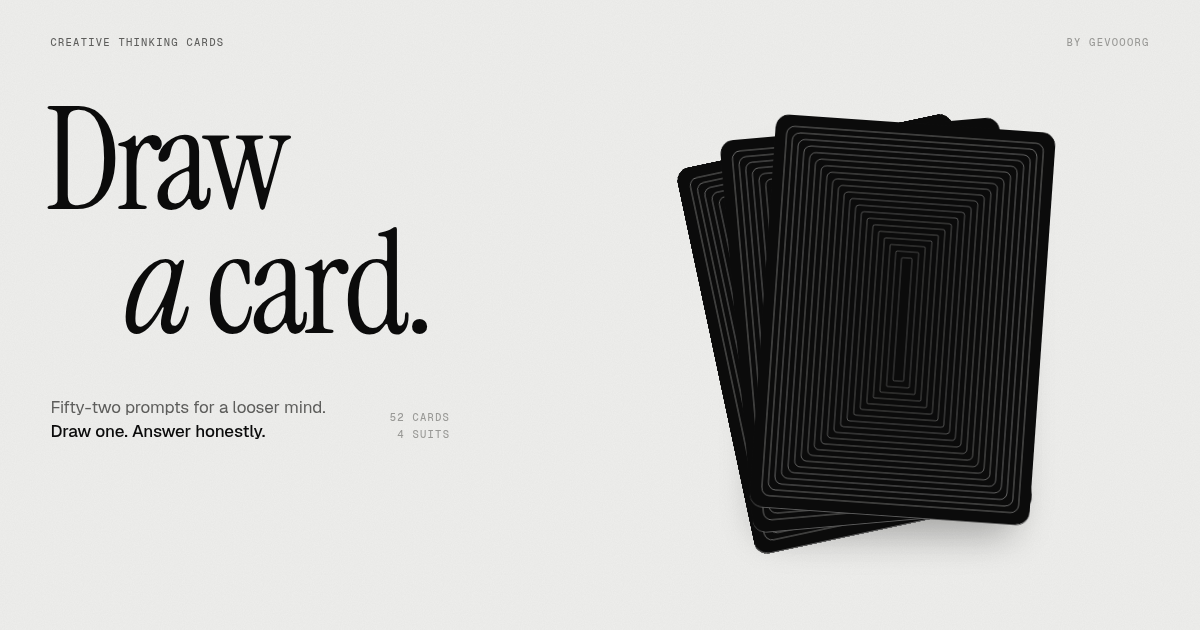
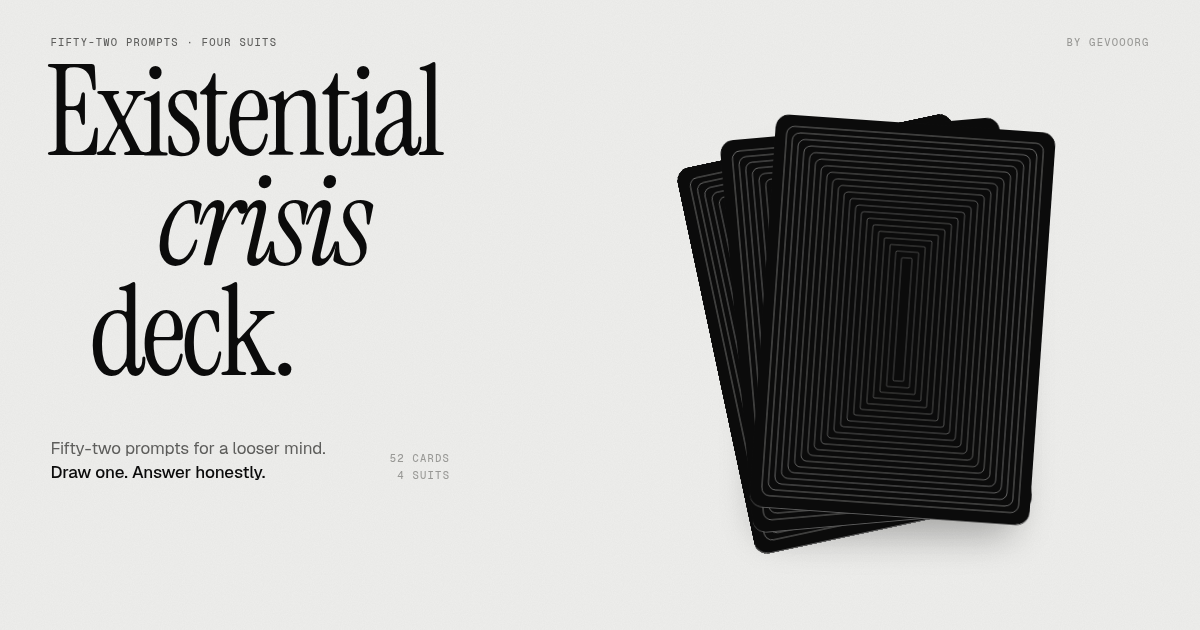
Rename to Existential Crisis Deck

diff --git a/index.html b/index.html
@@ -3,8 +3,8 @@
 <head>
 <meta charset="utf-8">
 <meta name="viewport" content="width=device-width, initial-scale=1, viewport-fit=cover">
-<title>Draw a card — creative thinking cards by gevooorg</title>
-<meta name="description" content="Fifty-two prompts for a looser mind. Shuffle, draw a card, answer honestly, and keep your answers in a private journal. Free, in your browser.">
+<title>Existential Crisis Deck — by gevooorg</title>
+<meta name="description" content="Existential Crisis Deck: fifty-two prompts for a looser mind. Shuffle, draw a card, answer honestly, and keep your answers in a private journal. Free, in your browser.">
 <meta name="theme-color" content="#EDEDEB">
 <meta name="color-scheme" content="light">
 <link rel="icon" href="favicon.svg" type="image/svg+xml">
@@ -13,16 +13,16 @@
 <link rel="manifest" href="manifest.webmanifest">
 <meta property="og:type" content="website">
 <meta property="og:site_name" content="gevooorg">
-<meta property="og:title" content="Draw a card — creative thinking cards">
+<meta property="og:title" content="Existential Crisis Deck — by gevooorg">
 <meta property="og:description" content="Fifty-two prompts for a looser mind. Draw one. Answer honestly.">
 <meta property="og:url" content="https://thehayrapetian.github.io/creative-thinking-cards/">
 <meta property="og:image" content="https://thehayrapetian.github.io/creative-thinking-cards/og-image.png">
 <link rel="canonical" href="https://thehayrapetian.github.io/creative-thinking-cards/">
 <meta property="og:image:width" content="1200">
 <meta property="og:image:height" content="630">
-<meta property="og:image:alt" content="Draw a card — a deck of fifty-two creative thinking prompts">
+<meta property="og:image:alt" content="Existential Crisis Deck — fifty-two prompts for a looser mind">
 <meta name="twitter:card" content="summary_large_image">
-<meta name="twitter:title" content="Draw a card — creative thinking cards">
+<meta name="twitter:title" content="Existential Crisis Deck — by gevooorg">
 <meta name="twitter:description" content="Fifty-two prompts for a looser mind. Draw one. Answer honestly.">
 <meta name="twitter:image" content="https://thehayrapetian.github.io/creative-thinking-cards/og-image.png">
 <style>
@@ -74,8 +74,9 @@ button{font:inherit;color:inherit;background:none;border:0;cursor:pointer}
 .t-top{display:flex;justify-content:space-between;align-items:baseline;color:var(--ink2);line-height:20px}
 .t-by{color:var(--ink3);text-decoration:none;transition:color .2s}
 .t-by:hover{color:var(--ink)}
-.wordmark{font-size:clamp(84px,28vw,190px);line-height:.86;letter-spacing:-.035em;margin:clamp(18px,4vh,48px) 0 0 -.04em}
-.wordmark .l2{display:block;padding-left:.55em}
+.wordmark{font-size:clamp(54px,18vw,150px);line-height:.88;letter-spacing:-.035em;margin:clamp(18px,4vh,48px) 0 0 -.04em}
+.wordmark .l2{display:block;padding-left:.9em}
+.wordmark .l3{display:block;padding-left:.35em}
 .t-space{flex:1;min-height:170px}
 .t-bottom{display:flex;justify-content:space-between;align-items:flex-end;gap:24px;margin:0 0 26px}
 .t-copy{font-size:15px;line-height:21px;color:var(--ink2);letter-spacing:-.006em;max-width:300px}
@@ -123,7 +124,7 @@ button{font:inherit;color:inherit;background:none;border:0;cursor:pointer}
 .fbot{position:absolute;left:24px;right:26px;bottom:18px;display:flex;align-items:baseline;gap:8px}
 .fbot .big{font-size:84px;line-height:.8;letter-spacing:-.04em;color:var(--faceInk)}
 .fbot .of{color:var(--faceInk2)}
-.fbot .wm{margin-left:auto;font-size:16px;letter-spacing:-.01em;color:var(--faceInk2)}
+.fbot .wm{margin-left:auto;font-size:14px;white-space:nowrap;letter-spacing:-.01em;color:var(--faceInk2)}
 
 /* ---------- journal ---------- */
 .j-wrap{position:absolute;left:0;right:0;top:calc(var(--top) + 64px);bottom:0;max-width:820px;margin:0 auto;padding:0 var(--pad);display:flex;flex-direction:column}
@@ -155,7 +156,7 @@ button{font:inherit;color:inherit;background:none;border:0;cursor:pointer}
 @media (min-width:900px) and (min-height:560px){
   .t-col{justify-content:center;padding-right:50%}
   .t-top{position:absolute;top:calc(var(--top) + 18px);left:var(--pad);right:var(--pad)}
-  .wordmark{font-size:clamp(120px,12vw,230px);margin-top:0}
+  .wordmark{font-size:clamp(84px,10.4vw,170px);margin-top:0}
   .t-space{position:absolute;left:52%;right:var(--pad);top:12%;bottom:10%;min-height:0}
   .t-bottom{margin:48px 0 36px;justify-content:flex-start;gap:64px}
   .t-copy{font-size:17px;line-height:24px;max-width:340px}
@@ -163,6 +164,7 @@ button{font:inherit;color:inherit;background:none;border:0;cursor:pointer}
   .keys{display:flex}
   .hbtn{font-size:16px}
 }
+@media (max-width:380px){.hmid{display:none}}
 @media (prefers-reduced-motion: reduce){*{transition-duration:.01s!important}}
 </style>
 </head>
@@ -172,8 +174,8 @@ button{font:inherit;color:inherit;background:none;border:0;cursor:pointer}
   <!-- TITLE -->
   <section class="screen" data-screen="title">
     <div class="t-col">
-      <div class="t-top"><span class="mono">Creative thinking cards</span><a class="t-by mono" href="https://gevooorg.com" target="_blank" rel="noopener">by gevooorg</a></div>
-      <h1 class="wordmark serif" aria-label="Draw a card">Draw<span class="l2"><span class="it">a</span> card.</span></h1>
+      <div class="t-top"><span class="mono">Fifty-two prompts · four suits</span><a class="t-by mono" href="https://gevooorg.com" target="_blank" rel="noopener">by gevooorg</a></div>
+      <h1 class="wordmark serif" aria-label="Existential Crisis Deck">Existential<span class="l2"><span class="it">crisis</span></span><span class="l3">deck.</span></h1>
       <div class="t-space" id="tSpace" aria-hidden="true"></div>
       <div class="t-bottom"><p class="t-copy">Fifty-two prompts for a looser mind.<br><b>Draw one. Answer honestly.</b></p><span class="t-meta mono">52 cards<br>4 suits</span></div>
       <div class="t-cta"><button class="btn" id="begin"><span class="lbl"><span>Begin</span></span></button></div>
@@ -184,7 +186,7 @@ button{font:inherit;color:inherit;background:none;border:0;cursor:pointer}
   <section class="screen" data-screen="table">
     <div class="hdr">
       <button class="hbtn" id="tBack" aria-label="Back"><svg width="10" height="17" viewBox="0 0 10 17"><path d="M8.5 1.5 2 8.5l6.5 7" fill="none" stroke="currentColor" stroke-width="1.8" stroke-linecap="round" stroke-linejoin="round"/></svg><span class="lbl" id="tBackL" style="display:inline-grid;overflow:hidden;height:20px;line-height:20px"><span style="grid-area:1/1">Home</span></span></button>
-      <span class="hmid mono">Draw a card</span>
+      <span class="hmid mono">Existential Crisis Deck</span>
       <button class="hbtn" id="tJournal">Journal<span class="mono" id="jCount" style="opacity:.55;letter-spacing:.04em">0</span></button>
     </div>
     <div class="vlayer" id="vlayer">
@@ -223,7 +225,7 @@ button{font:inherit;color:inherit;background:none;border:0;cursor:pointer}
 </div>
 
 <script>
-const DATA = {"title": "Draw a card (working title)", "note": "Original prompts written for an internal gevooorg prototype. Inspired in spirit by creative-thinking card decks; no wording reused.", "suits": [{"id": "recall", "name": "Recall", "about": "Memory, people, noticing"}, {"id": "invent", "name": "Invent", "about": "Objects, rituals, what-ifs"}, {"id": "play", "name": "Play", "about": "Constraints, games, odd angles"}, {"id": "admit", "name": "Admit", "about": "Blocks, fears, unfinished sentences"}], "cards": [{"n": 1, "suit": "recall", "suitName": "Recall", "rank": 1, "text": "Name someone who made you braver without ever meaning to. What did they actually do?"}, {"n": 2, "suit": "recall", "suitName": "Recall", "rank": 2, "text": "What did you build, draw or invent as a child that you would still quietly defend?"}, {"n": 3, "suit": "recall", "suitName": "Recall", "rank": 3, "text": "Recall the last time you lost track of time. Where were you, and what were your hands doing?"}, {"n": 4, "suit": "recall", "suitName": "Recall", "rank": 4, "text": "Which teacher saw something in you before you did?"}, {"n": 5, "suit": "recall", "suitName": "Recall", "rank": 5, "text": "Pick a place you pass every day. Describe one detail of it you have never mentioned to anyone."}, {"n": 6, "suit": "recall", "suitName": "Recall", "rank": 6, "text": "Think of a terrible idea you once loved. What was secretly good about it?"}, {"n": 7, "suit": "recall", "suitName": "Recall", "rank": 7, "text": "Who in your family is the cleverest improviser in a kitchen, a garage or a story? What is their trick?"}, {"n": 8, "suit": "recall", "suitName": "Recall", "rank": 8, "text": "Describe a room from your childhood using only sounds and smells."}, {"n": 9, "suit": "recall", "suitName": "Recall", "rank": 9, "text": "Which remark about your imagination do you still remember, word for word?"}, {"n": 10, "suit": "recall", "suitName": "Recall", "rank": 10, "text": "Which object you own has the best story behind it?"}, {"n": 11, "suit": "recall", "suitName": "Recall", "rank": 11, "text": "Look around you. What here was designed badly, and what was its maker thinking?"}, {"n": 12, "suit": "recall", "suitName": "Recall", "rank": 12, "text": "When did a mistake turn into the best part of something you made?"}, {"n": 13, "suit": "recall", "suitName": "Recall", "rank": 13, "text": "Whose style do you borrow, a little, when you want to feel original?"}, {"n": 14, "suit": "invent", "suitName": "Invent", "rank": 1, "text": "Design a tool for the five minutes after waking up."}, {"n": 15, "suit": "invent", "suitName": "Invent", "rank": 2, "text": "Invent a word for a feeling that has no name yet. Use it in a sentence."}, {"n": 16, "suit": "invent", "suitName": "Invent", "rank": 3, "text": "Every town gets a museum of one small thing. Choose the thing for yours."}, {"n": 17, "suit": "invent", "suitName": "Invent", "rank": 4, "text": "Invent a holiday for something everyone does and nobody mentions."}, {"n": 18, "suit": "invent", "suitName": "Invent", "rank": 5, "text": "Redesign the umbrella. You have one minute."}, {"n": 19, "suit": "invent", "suitName": "Invent", "rank": 6, "text": "You can borrow someone else’s habit for a week. Whose, and which one?"}, {"n": 20, "suit": "invent", "suitName": "Invent", "rank": 7, "text": "Invent a job that should exist but doesn’t. Write its one-line advert."}, {"n": 21, "suit": "invent", "suitName": "Invent", "rank": 8, "text": "Design a chair for someone waiting for news."}, {"n": 22, "suit": "invent", "suitName": "Invent", "rank": 9, "text": "Doors now remember everyone who walks through them. What does yours know about you?"}, {"n": 23, "suit": "invent", "suitName": "Invent", "rank": 10, "text": "Invent one rule for a dinner party that would make everyone more interesting."}, {"n": 24, "suit": "invent", "suitName": "Invent", "rank": 11, "text": "A shop sells only second chances. What is in the window?"}, {"n": 25, "suit": "invent", "suitName": "Invent", "rank": 12, "text": "What could a teaspoon do, if it weren’t so busy being a teaspoon?"}, {"n": 26, "suit": "invent", "suitName": "Invent", "rank": 13, "text": "Invent a small ritual for the moment you finish something."}, {"n": 27, "suit": "play", "suitName": "Play", "rank": 1, "text": "Tell the story of your week in exactly six words."}, {"n": 28, "suit": "play", "suitName": "Play", "rank": 2, "text": "Explain your work to a curious nine-year-old. Now explain it as a pirate."}, {"n": 29, "suit": "play", "suitName": "Play", "rank": 3, "text": "Name ten uses for an empty envelope, quickly. The last three count double."}, {"n": 30, "suit": "play", "suitName": "Play", "rank": 4, "text": "Draw your mood in the air using only straight lines."}, {"n": 31, "suit": "play", "suitName": "Play", "rank": 5, "text": "Pick up the nearest object. Give it a name, a fear and an ambition."}, {"n": 32, "suit": "play", "suitName": "Play", "rank": 6, "text": "Describe a song you love without using a single word about music."}, {"n": 33, "suit": "play", "suitName": "Play", "rank": 7, "text": "Rewrite a rule you live by as a line from a recipe."}, {"n": 34, "suit": "play", "suitName": "Play", "rank": 8, "text": "Combine two things within reach into one product. Pitch it in a single breath."}, {"n": 35, "suit": "play", "suitName": "Play", "rank": 9, "text": "Your hometown, redesigned by a cat. Walk us through it."}, {"n": 36, "suit": "play", "suitName": "Play", "rank": 10, "text": "Give your younger self advice, using only questions."}, {"n": 37, "suit": "play", "suitName": "Play", "rank": 11, "text": "Make a passionate case for the colour beige."}, {"n": 38, "suit": "play", "suitName": "Play", "rank": 12, "text": "Choose one strange limit for tomorrow. What might it unlock?"}, {"n": 39, "suit": "play", "suitName": "Play", "rank": 13, "text": "Describe the sky right now as a poet, a pilot and a toddler would."}, {"n": 40, "suit": "admit", "suitName": "Admit", "rank": 1, "text": "I would make more things if I weren’t so worried that…"}, {"n": 41, "suit": "admit", "suitName": "Admit", "rank": 2, "text": "The idea I keep almost starting is…"}, {"n": 42, "suit": "admit", "suitName": "Admit", "rank": 3, "text": "My imagination is at its best when I am…"}, {"n": 43, "suit": "admit", "suitName": "Admit", "rank": 4, "text": "The critic in my head sounds exactly like…"}, {"n": 44, "suit": "admit", "suitName": "Admit", "rank": 5, "text": "Something I pretend not to care about, but secretly want to be good at, is…"}, {"n": 45, "suit": "admit", "suitName": "Admit", "rank": 6, "text": "What would you make if no one could ever see it?"}, {"n": 46, "suit": "admit", "suitName": "Admit", "rank": 7, "text": "When did you last feel properly silly, and what did it give you?"}, {"n": 47, "suit": "admit", "suitName": "Admit", "rank": 8, "text": "I feel most original when I stop trying to…"}, {"n": 48, "suit": "admit", "suitName": "Admit", "rank": 9, "text": "Which sensible choice quietly cost you a more interesting life?"}, {"n": 49, "suit": "admit", "suitName": "Admit", "rank": 10, "text": "What would you attempt if being a beginner were considered glamorous?"}, {"n": 50, "suit": "admit", "suitName": "Admit", "rank": 11, "text": "The last time I said ‘I’m not the creative type’, what I really meant was…"}, {"n": 51, "suit": "admit", "suitName": "Admit", "rank": 12, "text": "When I am bored, it usually turns into…"}, {"n": 52, "suit": "admit", "suitName": "Admit", "rank": 13, "text": "Name one small, slightly ridiculous thing you could make this week. When will you start?"}]};
+const DATA = {"title": "Existential Crisis Deck", "note": "Original prompts written for an internal gevooorg prototype. Inspired in spirit by creative-thinking card decks; no wording reused.", "suits": [{"id": "recall", "name": "Recall", "about": "Memory, people, noticing"}, {"id": "invent", "name": "Invent", "about": "Objects, rituals, what-ifs"}, {"id": "play", "name": "Play", "about": "Constraints, games, odd angles"}, {"id": "admit", "name": "Admit", "about": "Blocks, fears, unfinished sentences"}], "cards": [{"n": 1, "suit": "recall", "suitName": "Recall", "rank": 1, "text": "Name someone who made you braver without ever meaning to. What did they actually do?"}, {"n": 2, "suit": "recall", "suitName": "Recall", "rank": 2, "text": "What did you build, draw or invent as a child that you would still quietly defend?"}, {"n": 3, "suit": "recall", "suitName": "Recall", "rank": 3, "text": "Recall the last time you lost track of time. Where were you, and what were your hands doing?"}, {"n": 4, "suit": "recall", "suitName": "Recall", "rank": 4, "text": "Which teacher saw something in you before you did?"}, {"n": 5, "suit": "recall", "suitName": "Recall", "rank": 5, "text": "Pick a place you pass every day. Describe one detail of it you have never mentioned to anyone."}, {"n": 6, "suit": "recall", "suitName": "Recall", "rank": 6, "text": "Think of a terrible idea you once loved. What was secretly good about it?"}, {"n": 7, "suit": "recall", "suitName": "Recall", "rank": 7, "text": "Who in your family is the cleverest improviser in a kitchen, a garage or a story? What is their trick?"}, {"n": 8, "suit": "recall", "suitName": "Recall", "rank": 8, "text": "Describe a room from your childhood using only sounds and smells."}, {"n": 9, "suit": "recall", "suitName": "Recall", "rank": 9, "text": "Which remark about your imagination do you still remember, word for word?"}, {"n": 10, "suit": "recall", "suitName": "Recall", "rank": 10, "text": "Which object you own has the best story behind it?"}, {"n": 11, "suit": "recall", "suitName": "Recall", "rank": 11, "text": "Look around you. What here was designed badly, and what was its maker thinking?"}, {"n": 12, "suit": "recall", "suitName": "Recall", "rank": 12, "text": "When did a mistake turn into the best part of something you made?"}, {"n": 13, "suit": "recall", "suitName": "Recall", "rank": 13, "text": "Whose style do you borrow, a little, when you want to feel original?"}, {"n": 14, "suit": "invent", "suitName": "Invent", "rank": 1, "text": "Design a tool for the five minutes after waking up."}, {"n": 15, "suit": "invent", "suitName": "Invent", "rank": 2, "text": "Invent a word for a feeling that has no name yet. Use it in a sentence."}, {"n": 16, "suit": "invent", "suitName": "Invent", "rank": 3, "text": "Every town gets a museum of one small thing. Choose the thing for yours."}, {"n": 17, "suit": "invent", "suitName": "Invent", "rank": 4, "text": "Invent a holiday for something everyone does and nobody mentions."}, {"n": 18, "suit": "invent", "suitName": "Invent", "rank": 5, "text": "Redesign the umbrella. You have one minute."}, {"n": 19, "suit": "invent", "suitName": "Invent", "rank": 6, "text": "You can borrow someone else’s habit for a week. Whose, and which one?"}, {"n": 20, "suit": "invent", "suitName": "Invent", "rank": 7, "text": "Invent a job that should exist but doesn’t. Write its one-line advert."}, {"n": 21, "suit": "invent", "suitName": "Invent", "rank": 8, "text": "Design a chair for someone waiting for news."}, {"n": 22, "suit": "invent", "suitName": "Invent", "rank": 9, "text": "Doors now remember everyone who walks through them. What does yours know about you?"}, {"n": 23, "suit": "invent", "suitName": "Invent", "rank": 10, "text": "Invent one rule for a dinner party that would make everyone more interesting."}, {"n": 24, "suit": "invent", "suitName": "Invent", "rank": 11, "text": "A shop sells only second chances. What is in the window?"}, {"n": 25, "suit": "invent", "suitName": "Invent", "rank": 12, "text": "What could a teaspoon do, if it weren’t so busy being a teaspoon?"}, {"n": 26, "suit": "invent", "suitName": "Invent", "rank": 13, "text": "Invent a small ritual for the moment you finish something."}, {"n": 27, "suit": "play", "suitName": "Play", "rank": 1, "text": "Tell the story of your week in exactly six words."}, {"n": 28, "suit": "play", "suitName": "Play", "rank": 2, "text": "Explain your work to a curious nine-year-old. Now explain it as a pirate."}, {"n": 29, "suit": "play", "suitName": "Play", "rank": 3, "text": "Name ten uses for an empty envelope, quickly. The last three count double."}, {"n": 30, "suit": "play", "suitName": "Play", "rank": 4, "text": "Draw your mood in the air using only straight lines."}, {"n": 31, "suit": "play", "suitName": "Play", "rank": 5, "text": "Pick up the nearest object. Give it a name, a fear and an ambition."}, {"n": 32, "suit": "play", "suitName": "Play", "rank": 6, "text": "Describe a song you love without using a single word about music."}, {"n": 33, "suit": "play", "suitName": "Play", "rank": 7, "text": "Rewrite a rule you live by as a line from a recipe."}, {"n": 34, "suit": "play", "suitName": "Play", "rank": 8, "text": "Combine two things within reach into one product. Pitch it in a single breath."}, {"n": 35, "suit": "play", "suitName": "Play", "rank": 9, "text": "Your hometown, redesigned by a cat. Walk us through it."}, {"n": 36, "suit": "play", "suitName": "Play", "rank": 10, "text": "Give your younger self advice, using only questions."}, {"n": 37, "suit": "play", "suitName": "Play", "rank": 11, "text": "Make a passionate case for the colour beige."}, {"n": 38, "suit": "play", "suitName": "Play", "rank": 12, "text": "Choose one strange limit for tomorrow. What might it unlock?"}, {"n": 39, "suit": "play", "suitName": "Play", "rank": 13, "text": "Describe the sky right now as a poet, a pilot and a toddler would."}, {"n": 40, "suit": "admit", "suitName": "Admit", "rank": 1, "text": "I would make more things if I weren’t so worried that…"}, {"n": 41, "suit": "admit", "suitName": "Admit", "rank": 2, "text": "The idea I keep almost starting is…"}, {"n": 42, "suit": "admit", "suitName": "Admit", "rank": 3, "text": "My imagination is at its best when I am…"}, {"n": 43, "suit": "admit", "suitName": "Admit", "rank": 4, "text": "The critic in my head sounds exactly like…"}, {"n": 44, "suit": "admit", "suitName": "Admit", "rank": 5, "text": "Something I pretend not to care about, but secretly want to be good at, is…"}, {"n": 45, "suit": "admit", "suitName": "Admit", "rank": 6, "text": "What would you make if no one could ever see it?"}, {"n": 46, "suit": "admit", "suitName": "Admit", "rank": 7, "text": "When did you last feel properly silly, and what did it give you?"}, {"n": 47, "suit": "admit", "suitName": "Admit", "rank": 8, "text": "I feel most original when I stop trying to…"}, {"n": 48, "suit": "admit", "suitName": "Admit", "rank": 9, "text": "Which sensible choice quietly cost you a more interesting life?"}, {"n": 49, "suit": "admit", "suitName": "Admit", "rank": 10, "text": "What would you attempt if being a beginner were considered glamorous?"}, {"n": 50, "suit": "admit", "suitName": "Admit", "rank": 11, "text": "The last time I said ‘I’m not the creative type’, what I really meant was…"}, {"n": 51, "suit": "admit", "suitName": "Admit", "rank": 12, "text": "When I am bored, it usually turns into…"}, {"n": 52, "suit": "admit", "suitName": "Admit", "rank": 13, "text": "Name one small, slightly ridiculous thing you could make this week. When will you start?"}]};
 addEventListener('unhandledrejection', e => { if (e.reason && e.reason.name === 'AbortError') e.preventDefault(); });
 (() => {
 const $ = s => document.querySelector(s), $$ = s => [...document.querySelectorAll(s)];
@@ -419,7 +421,7 @@ function makeCard(c) {
   el.innerHTML = `<div class="flip"><div class="face back"></div><div class="face front">
     <div class="ftop"><span class="suit mono">${glyph(c.suit, 13)}${c.suitName}</span><span class="fnum mono">${c.rank} of 13</span></div>
     <p class="prompt serif" style="font-size:${fs}px;line-height:${fs <= 33 ? 1.07 : 1.04}">${c.text.replace(/\u2026$/, '<span class="it">…</span>')}</p>
-    <div class="fbot"><span class="big serif">${c.n}</span><span class="of mono">/ 52</span><span class="wm serif"><span class="it">Draw</span> a card</span></div></div></div>`;
+    <div class="fbot"><span class="big serif">${c.n}</span><span class="of mono">/ 52</span><span class="wm serif"><span class="it">Existential</span> crisis deck</span></div></div></div>`;
   el.setAttribute('aria-label', `Card ${c.n} of 52, ${c.suitName}: ${c.text}`); el.setAttribute('role', 'img');
   stage.append(sh, el); return { el, sh, flip: el.firstChild };
 }

diff --git a/sw.js b/sw.js
@@ -1,5 +1,5 @@
 // Offline cache: the whole app is one HTML file plus a few icons.
-const CACHE = 'draw-a-card-v1';
+const CACHE = 'ecd-v2';
 const ASSETS = ['./', 'index.html', 'favicon.svg', 'favicon-32.png', 'apple-touch-icon.png', 'icon-512.png', 'manifest.webmanifest', 'og-image.png'];
 self.addEventListener('install', e => { e.waitUntil(caches.open(CACHE).then(c => c.addAll(ASSETS)).then(() => self.skipWaiting())); });
 self.addEventListener('activate', e => { e.waitUntil(caches.keys().then(ks => Promise.all(ks.filter(k => k !== CACHE).map(k => caches.delete(k)))).then(() => self.clients.claim())); });

diff --git a/README.md b/README.md
@@ -1,4 +1,4 @@
-# Draw a card — creative thinking cards
+# Existential Crisis Deck
 
 Fifty-two prompts for a looser mind. Shuffle, draw a card, answer honestly, and keep your answers in a private journal that stays in your browser.
 
